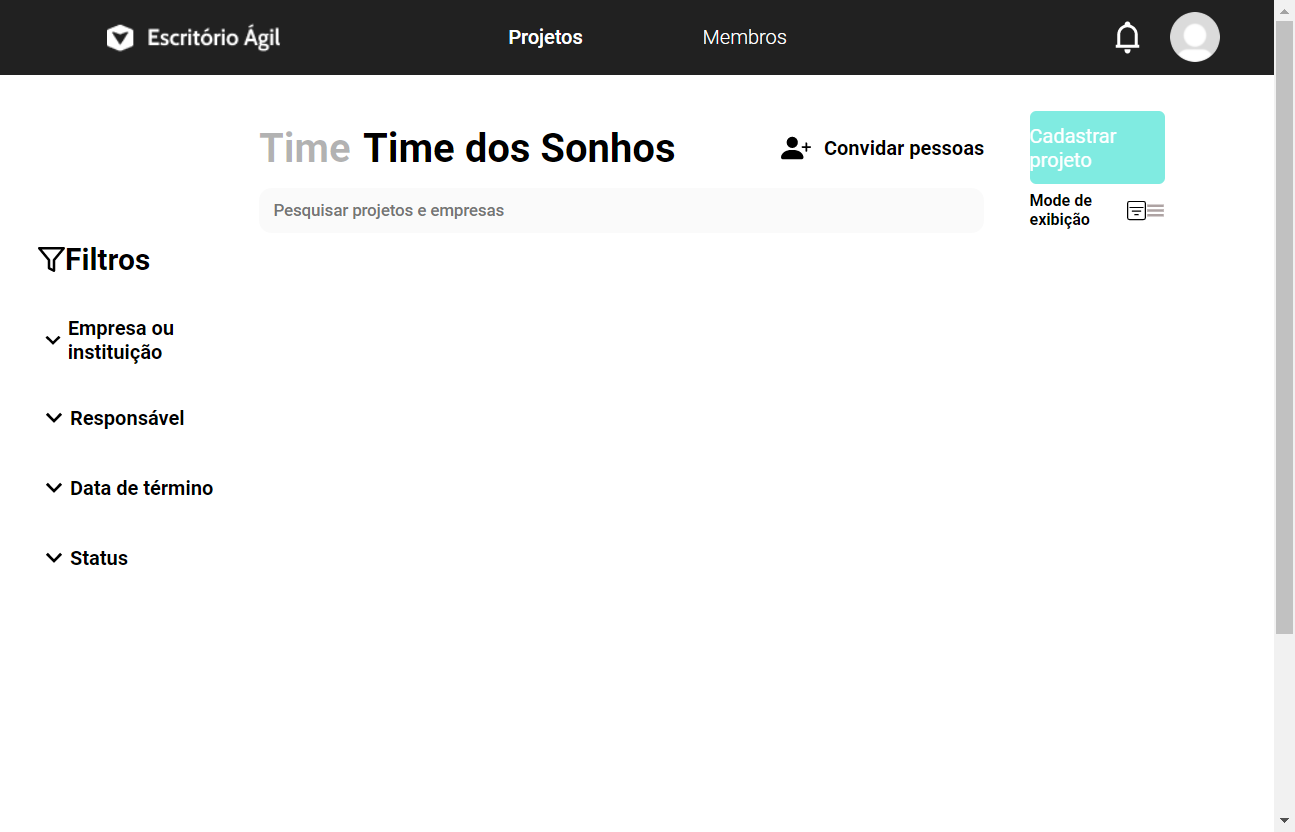
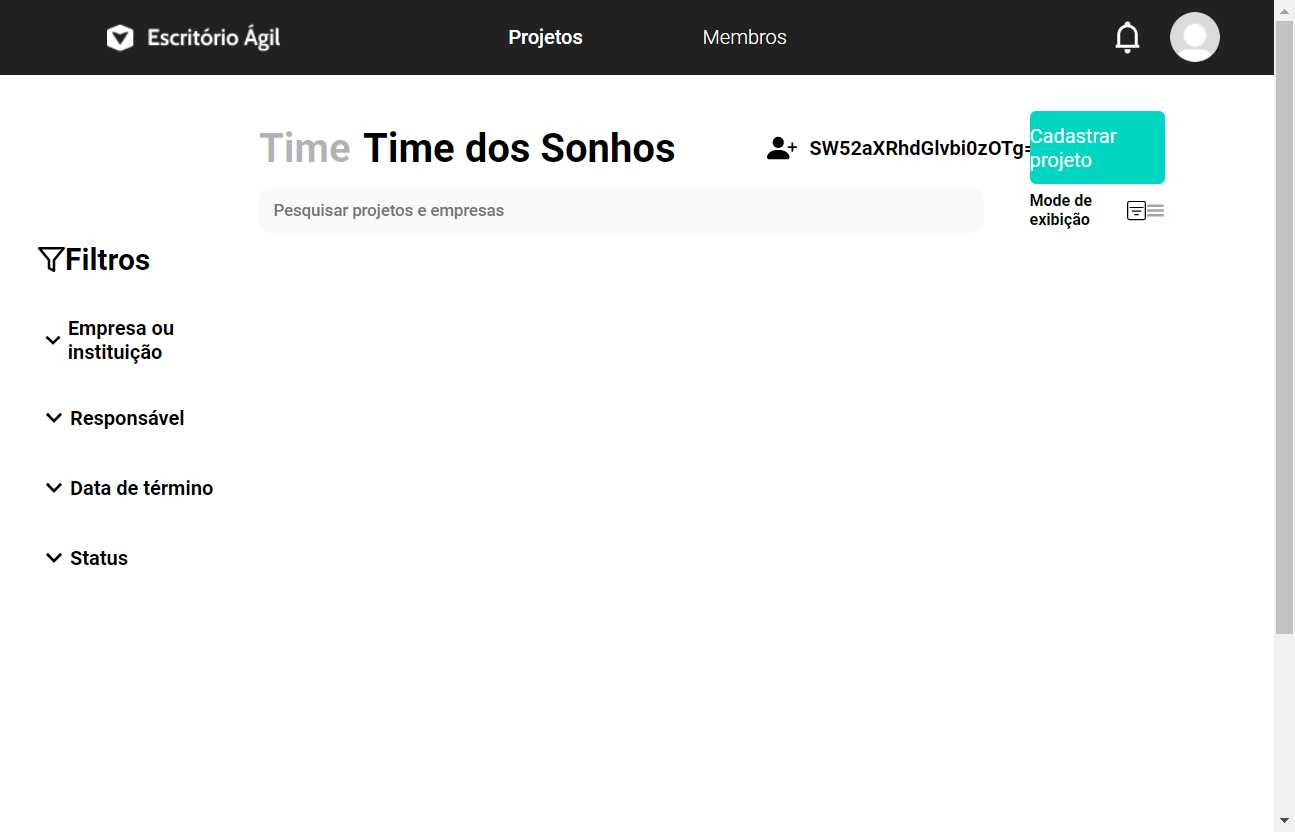
teste005

Changed region(s): [[0.5869, 0.125, 0.9266, 0.2188]]

diff --git a/teste005/teste005.py b/teste005/teste005.py
@@ -6,26 +6,25 @@ def front(s,t):
     print('=-='*11)
     sleep(t)
     print(f'Step {s}:')
-    return None
 
 def screen(teste,passo):
-    driver.save_screenshot(f'teste002\{teste}_passo_{passo}.png')
+    driver.save_screenshot(f'teste005\{teste}_passo_{passo}.png')
     return None        
 
-print('=-='*2,'Realizando teste002','=-='*2)
+print('=-='*2,'Realizando teste005','=-='*2)
 
 while(True):
     
     t=0
-    teste = "teste002_cria_novo_time_"
+    teste = "teste004_entrar_time"
     options = webdriver.ChromeOptions()
     options.add_experimental_option('excludeSwitches', ['enable-logging'])
     driver = webdriver.Chrome(options=options)
-
+    
     ##### Step 1 #####
     
     passo = 1.0
-    front(passo,t) 
+    front(passo,t)  
     print('''        Acessar a url: https://escritorioagil.netlify.app/
         ''')
     driver.get('https://escritorioagil.netlify.app/')
@@ -53,54 +52,48 @@ while(True):
     else:
         print(f'Não clicou!')
         break
+    
     print('''        Completando os campos: 
         Email e ''',end="")
-    driver.find_element(by=By.XPATH, value='/html/body/div/div/form/div[2]/input').send_keys('teste@gmail.com')
+    driver.find_element(by=By.XPATH, value='/html/body/div/div/form/div[2]/input').send_keys('carlos@uff.br')
     sleep(t)
     print('Senha.')
     driver.find_element(by=By.XPATH, value='/html/body/div/div/form/div[3]/input').send_keys('1234567')
+    sleep(t)
     screen(teste,passo)
-    sleep(0.5)
     print('Clicando no Botão entrar') 
     for i in range(1,4):
         print(' * ',end="")      
     driver.find_element(by=By.XPATH, value='/html/body/div/div/form/div[4]/button').click()
-    sleep(2)
-    if driver.current_url == 'https://escritorioagil.netlify.app/teams':
+    sleep(1)
+    if driver.current_url == 'https://escritorioagil.netlify.app/signin':
         print("Entrou!\n")
         sleep(t)
     else:
         print('Não acessou!')
         break
+    sleep(1)
+    passo = 2.1
+    screen(teste,passo)
     
     ##### Step 3 #####
     
     passo = 3.0
-    front(passo,t)
-    print('''        Clicando em Adicionar''')
-    driver.find_element(by=By.XPATH, value='/html/body/div/div/div[4]/div[1]/button').click()
-    sleep(t)
-    if driver.find_element(by=By.XPATH, value='/html/body/div/div[2]/div[2]/div[1]/div[1]/div[1]/div[1]/input'):
-        print("Clicou e entrou!\n")
-        sleep(t)
-    else:
-        print('Não entrou!')
-        break
-    
-    ##### Step 4 #####
-    
-    passo = 4.0
-    front(passo,t)
-    print('''        Cadastrando um novo time''')
-    driver.find_element(by=By.XPATH, value='/html/body/div/div[2]/div[2]/div[1]/div[1]/div[1]/div[1]/input').send_keys('Time dos Sonhos')
-    driver.find_element_by_xpath("//div[@class='actions']/a").click()
-    
-    print('=-='*11)
-    sleep(0.5)
+    front(passo,t) 
+    driver.find_element(by=By.XPATH, value='/html/body/div/div/div[3]/div/button').click()
+    sleep(1)
+    driver.find_element(by=By.XPATH, value="//input[@placeholder='Código Ex: SW52aX...']").send_keys('SW52aXRhdGlvbi00MDU=')
+    sleep(1)
+    passo = 3.1
     screen(teste,passo)
-    print('Teste finalizado sem nenhum erro!')    
+    driver.find_element(by=By.XPATH, value='/html/body/div/div/div[1]/div[2]/div[2]/div/button').click()
+    sleep(1)
+    passo = 3.2
+    screen(teste,passo)
+    print('=-='*11)
+    print('Teste finalizado sem nenhum erro!')
     
-    #driver.close()
-    #driver.quit()   
-     
+    break
+    driver.close()
+    driver.quit()
     break
